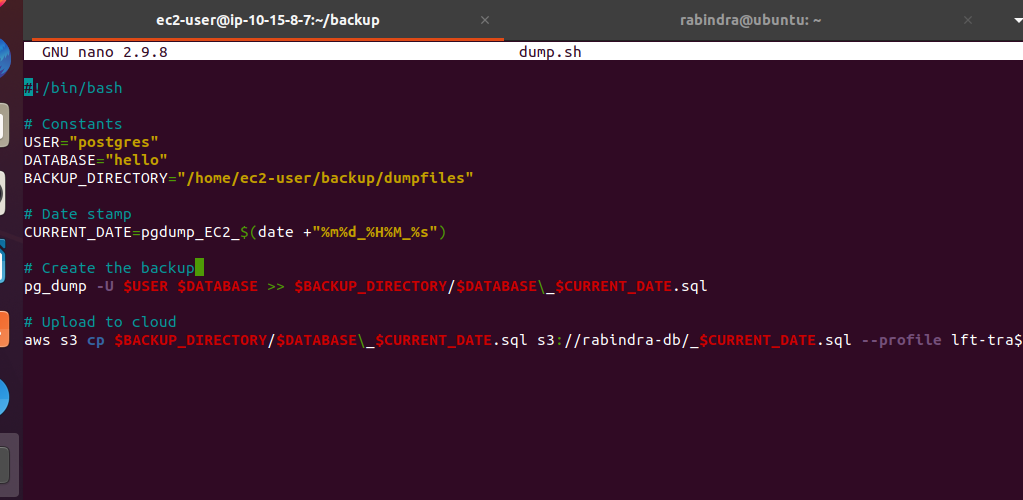
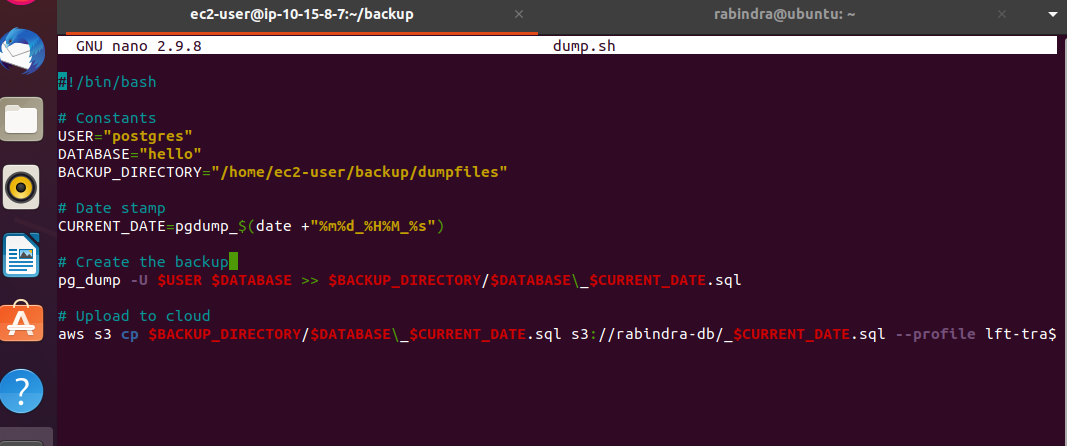
README

Changed region(s): [[0.0, 0.0, 1.0, 1.0]]

diff --git a/serverless-rabindra/2/README.md b/serverless-rabindra/2/README.md
@@ -1,5 +1,115 @@
 2. Create a Lambda function that is triggered by an object being uploaded to an S3 bucket. If the object’s name starts with make_public, ensure that the object is publicly accessible.
 
-Steps:
-Create fuction in lamda 
-Add s3 trigger and attach permission
+Steps:<br/>
+Create bucket and Give permission<br/>
+permission > Block public access (bucket settings)<br/>
+
+![public](https://user-images.githubusercontent.com/53372486/145682994-f5380b7c-475f-45ac-9d67-d5eb3ca8fa17.png)<br/>
+
+Change Object Ownership<br/>
+permission > Object Ownership<br/>
+
+![ownership](https://user-images.githubusercontent.com/53372486/145682202-79c0bf10-0635-4a64-a100-bfed79dfa1ba.png)<br/>
+
+check bucket<br/>
+
+![bucket](https://user-images.githubusercontent.com/53372486/145682195-14f2463a-61db-4012-9a1e-2c1571eb29d8.png)<br/>
+
+Create fuction in lamda <br/>
+
+![create fuction](https://user-images.githubusercontent.com/53372486/145682199-cff90bed-00de-4fc4-8d79-1998b61de18c.png)<br/>
+
+![create fuction 2](https://user-images.githubusercontent.com/53372486/145682197-c66676ff-0f03-4327-ab0b-3ebaf1860a64.png)<br/>
+
+Add permission <br/>
+Click on role name<br/>
+
+![add permission](https://user-images.githubusercontent.com/53372486/145682192-21944794-beb1-4fed-ad31-da997e802557.png)<br/>
+
+Attach permission<br/>
+
+![permission](https://user-images.githubusercontent.com/53372486/145682203-0f77d261-df84-4fa6-9f55-7c47e9ca9b09.png)<br/>
+
+Add s3 trigger with prefix make_public<br/> 
+
+![add triger](https://user-images.githubusercontent.com/53372486/145682193-997eebf5-06d1-4a3a-9bb7-743196d44e7d.png)<br/>
+
+Add code in lamda fuction<br/>
+```
+import json
+import boto3
+
+rabindra_db = "rabindra-db"
+
+
+def lambda_handler(event, context):
+
+    # extracting the bucket name and object name from the event
+    bucket_name=event['Records'][0]['s3']['bucket']['name']
+    #keep key always in " "
+    object_name=event['Records'][0]['s3']['object']["key"]
+    
+    print("bucket name is", bucket_name)
+    print("object name is", object_name)
+    
+    
+    
+    #initializing an s3 resourcce
+    s3=boto3.resource('s3')
+    
+    #getting the uploaded public object
+    public_object=s3.Object(rabindra_db, object_name)
+    
+    #get the ACL object for the uploaded object
+    acl=public_object.Acl()
+    
+    #make the object publicly accessible
+    acl.put(ACL='public-read')
+```
+![add code](https://user-images.githubusercontent.com/53372486/145682190-f0909ebd-4124-4b77-b2ab-4daf71beaf32.png)<br/>
+
+Test code (add event-S3 put)<br/>
+
+![execution](https://user-images.githubusercontent.com/53372486/145682200-5d5b77c4-d376-4744-9b90-6b9f1372fb38.png)<br/>
+ 
+Check event notification in s3(property)<br/>
+
+![event notifiaction](https://user-images.githubusercontent.com/53372486/145682727-a3df69c4-75a2-499f-860f-34a7a1fba4e4.png)<br/>
+
+Now add code for  make_public in bash script<br/>
+```
+#!/bin/bash
+
+# Constants
+USER="postgres"
+DATABASE="hello"
+BACKUP_DIRECTORY="/home/ec2-user/backup/dumpfiles"
+
+# Date stamp
+#CURRENT_DATE=pgdump_$(date +"%m%d_%H%M_%s")
+CURRENT_DATE=make_public_$(date +"%m%d_%H%M_%s")
+
+# Create the backup 
+pg_dump -U $USER $DATABASE >> $BACKUP_DIRECTORY/$DATABASE\$CURRENT_DATE.sql
+
+# Upload to cloud
+aws s3 cp $BACKUP_DIRECTORY/$DATABASE\$CURRENT_DATE.sql s3://rabindra-db/$CURRENT_DATE.sql --profile lft-train$
+```
+![bash](https://user-images.githubusercontent.com/53372486/145682194-df65fc8c-63fd-441c-929a-9e6a3711cef0.png)<br/>
+
+Run bash script<br/>
+./dump.sh
+
+![run bash](https://user-images.githubusercontent.com/53372486/145682205-92f35a90-0103-4662-b7b0-2e3f9cb347c2.png)<br/>
+
+Check Uploaded file in s3 bucket<br/>
+
+![uplaod file](https://user-images.githubusercontent.com/53372486/145682264-7b5513c4-e562-4073-abcc-8d6348d2ced6.png)<br/>
+
+Check permission of file after file uploaded<br/>
+
+![permisssion of file](https://user-images.githubusercontent.com/53372486/145682266-fd358b27-2039-43af-88ae-af9c3a41701e.png)<br/>
+
+Check url<br/>
+
+![after click on url](https://user-images.githubusercontent.com/53372486/145682418-a7e36948-bf07-4094-b0fb-2da28e5eb864.png)<br/>

diff --git a/serverless-rabindra/1/README.md b/serverless-rabindra/1/README.md
@@ -88,7 +88,7 @@ DATABASE="hello"
 BACKUP_DIRECTORY="/home/ec2-user/backup/dumpfiles"
 
 # Date stamp
-CURRENT_DATE=pgdump_EC2_$(date +"%m%d_%H%M_%s")
+CURRENT_DATE=pgdump_$(date +"%m%d_%H%M_%s")
 
 # Create the backup 
 pg_dump -U $USER $DATABASE >> $BACKUP_DIRECTORY/$DATABASE\_$CURRENT_DATE.sql
@@ -96,7 +96,7 @@ pg_dump -U $USER $DATABASE >> $BACKUP_DIRECTORY/$DATABASE\_$CURRENT_DATE.sql
 # Upload to cloud
 aws s3 cp $BACKUP_DIRECTORY/$DATABASE\_$CURRENT_DATE.sql s3://rabindra-db/_$CURRENT_DATE.sql --profile lft-training
 ```
-![dumpscript](https://user-images.githubusercontent.com/53372486/145670341-fde81a66-899d-4a40-8a40-35ad812d914b.png)<br/>
+![dumpscript](https://user-images.githubusercontent.com/53372486/145671271-eed87cd3-3ebc-489f-a680-4296f684d93f.png)<br/>
 
 Run dump.sh<br/>
 ```
@@ -106,7 +106,15 @@ Run dump.sh<br/>
 
 Now check in s3 bucket<br/>
 
+![bucket](https://user-images.githubusercontent.com/53372486/145671269-f0a24dc9-e347-48be-b303-b5e0ab06d5b3.png)<br/>
+
+Check permission<br/>
+
 ![not accesible](https://user-images.githubusercontent.com/53372486/145670346-eebc50d3-5d85-48ae-ad5f-dc79a26ec66f.png)<br/>
+
+Click on url<br/>
+
+![After clcik on url](https://user-images.githubusercontent.com/53372486/145682371-00f4097f-2fa0-445d-a790-e7f56adcbc5a.png)<br/>
 
 Used crontab For 3 time backup<br/>
 Check crontab<br/>  
@@ -130,6 +138,8 @@ Again Check crontab after added rule<br/>
 crontab -l
 ```
 ![check crontab](https://user-images.githubusercontent.com/53372486/145670336-bbe33e03-7c98-4dca-9d3a-5164a2d2a5ba.png)
+
+
 
 
 
